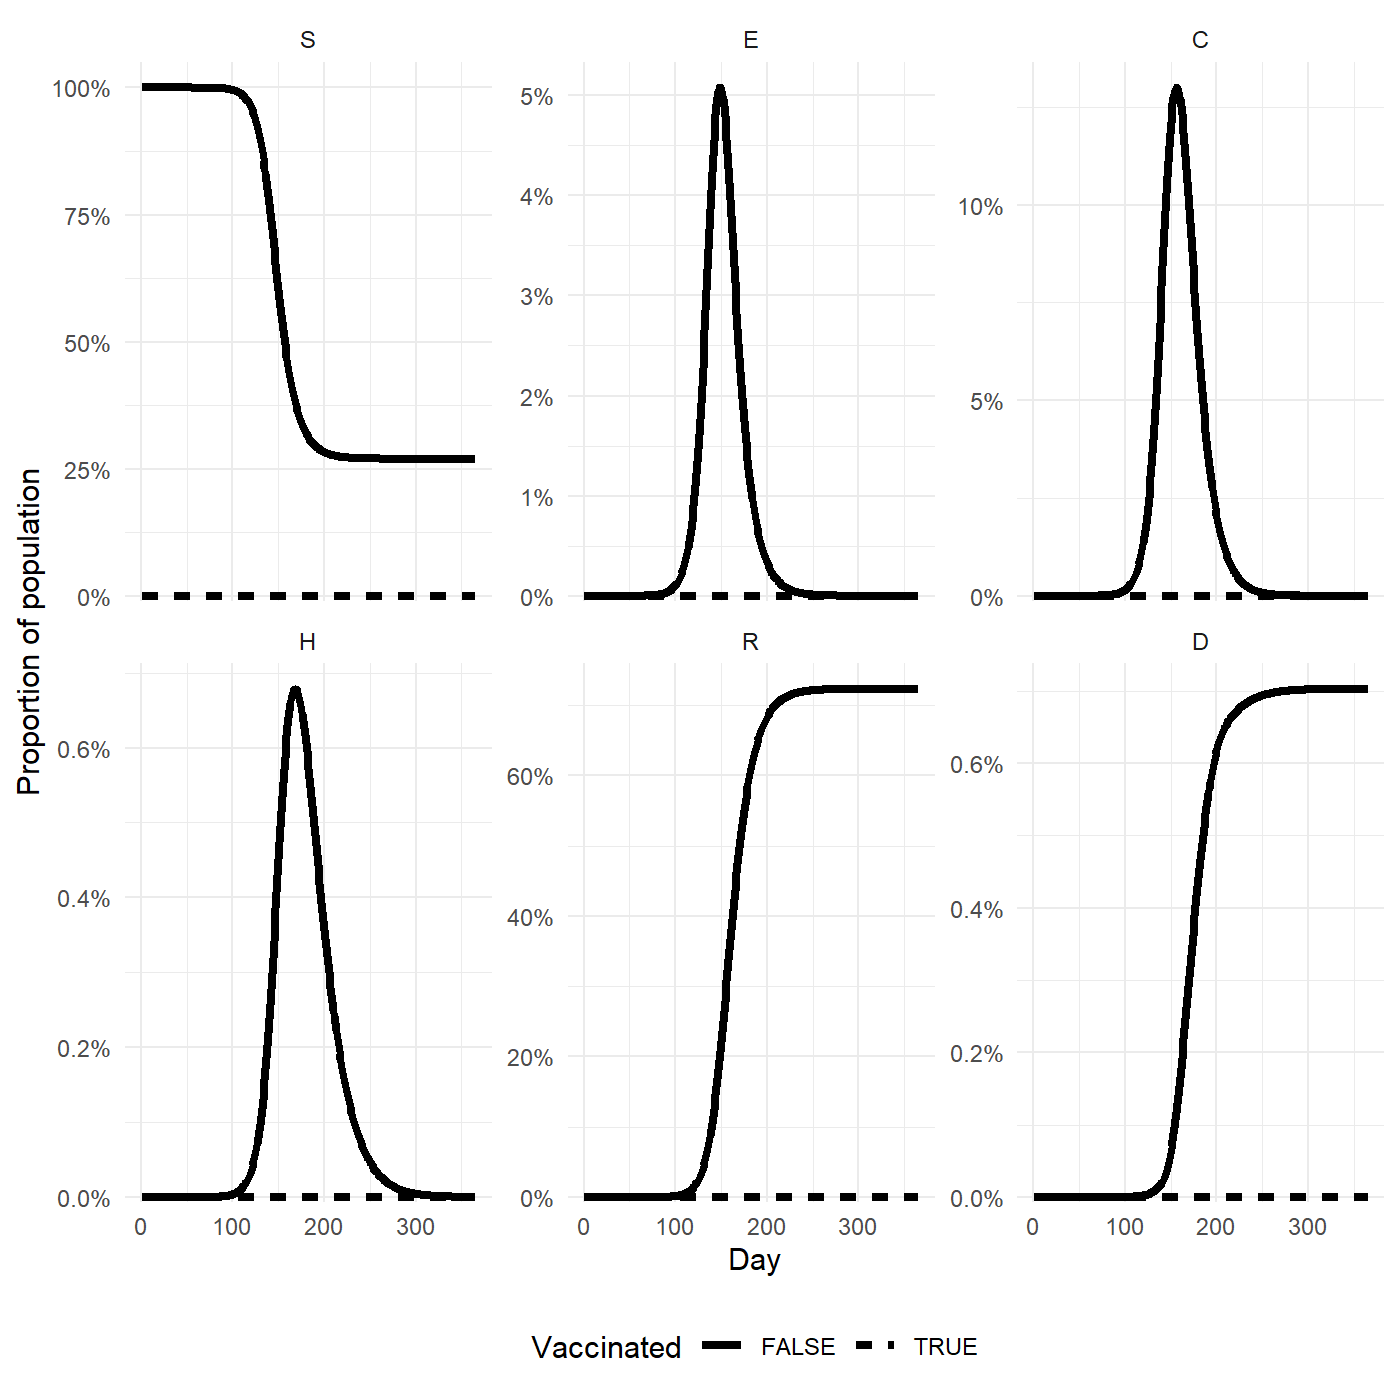
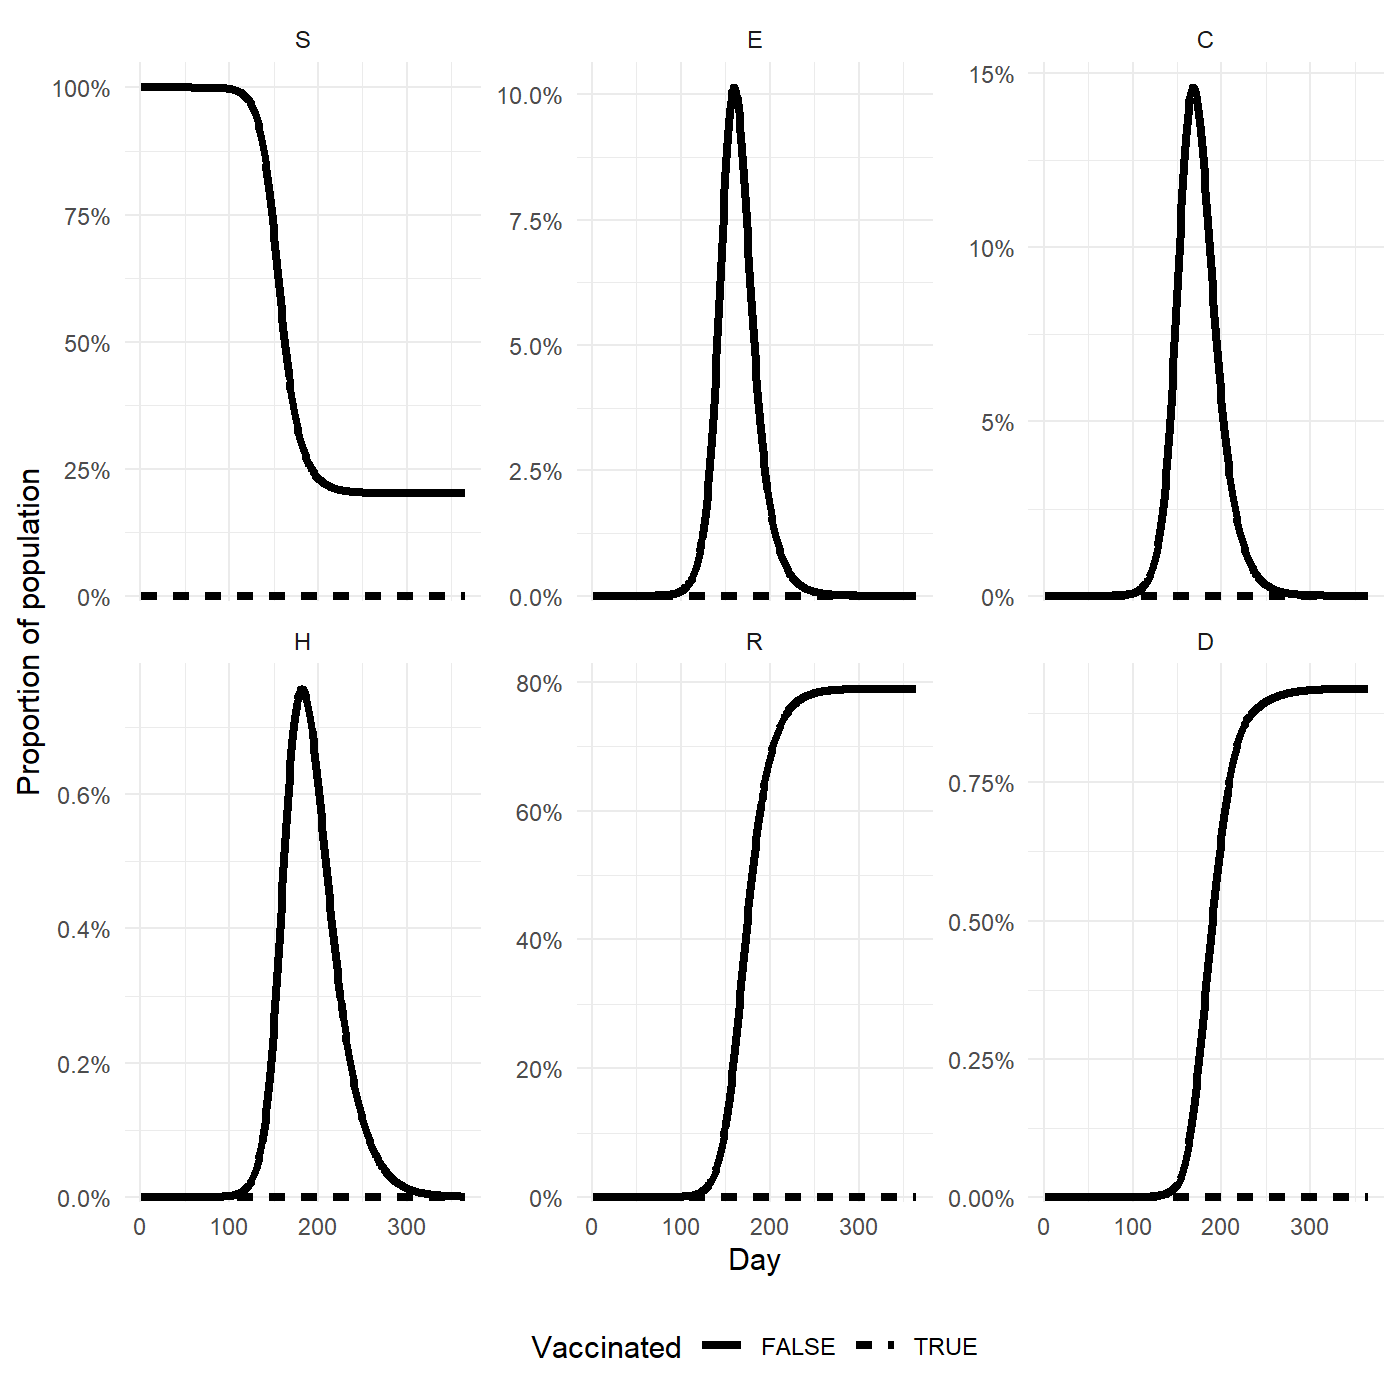
updated vignette

diff --git a/README.md b/README.md
@@ -37,9 +37,9 @@ their default values are given below:
 |Argument                |Description                                                                                                                                                                                                                   |Default value                                |
 |:-----------------------|:-----------------------------------------------------------------------------------------------------------------------------------------------------------------------------------------------------------------------------|:--------------------------------------------|
 |iso3                    |The ISO3 code of the country used to draw age-distributions and contact rates from.                                                                                                                                           |"USA"                                        |
-|R0                      |The basic reproduction number.                                                                                                                                                                                                |2.5                                          |
-|generation_time         |The mean generation time in days.                                                                                                                                                                                             |7                                            |
-|incubation_period       |The mean incubation period in days.                                                                                                                                                                                           |3                                            |
+|R0                      |The basic reproduction number.                                                                                                                                                                                                |3                                            |
+|generation_time         |The mean generation time in days.                                                                                                                                                                                             |10                                           |
+|incubation_period       |The mean incubation period in days.                                                                                                                                                                                           |6                                            |
 |infectiousness_presymp  |Relative infectiousness of presymptomatic cases to symptomatic cases.                                                                                                                                                         |0.25                                         |
 |frac_symp               |The proportion of cases that eventually develop symptoms.                                                                                                                                                                     |0.8                                          |
 |ifr                     |Infection fatality rate provided either as a single value or as a vector of the same length as the number of age categories. Use the function 'age_to_ifr' to calculate a COVID-like IFR from a vector of ages.               |age_to_ifr(get_age_median())                 |
@@ -131,19 +131,19 @@ summary(output, day = 150)
 
 |statistic                            |value     |
 |:------------------------------------|:---------|
-|incidence_last_7                     |40716054  |
-|incidence_cumulative                 |138832526 |
-|incidence_weekly_change              |8%        |
-|death_last_7                         |71172     |
-|death_cumulative                     |162438    |
-|death_weekly_change                  |61%       |
-|hosp_admission_last_7                |1027356   |
-|hosp_admission_cumulative            |2740023   |
-|hosp_admission_weekly_change         |35%       |
-|hospital_occupancy                   |181%      |
-|proportion_cases_hospitalised_last_7 |2.5%      |
-|ifr_last_7                           |0.175%    |
-|ifr_cumulative                       |0.117%    |
+|incidence_last_7                     |37913546  |
+|incidence_cumulative                 |100239417 |
+|incidence_weekly_change              |38%       |
+|death_last_7                         |37413     |
+|death_cumulative                     |78425     |
+|death_weekly_change                  |82%       |
+|hosp_admission_last_7                |653121    |
+|hosp_admission_cumulative            |1467098   |
+|hosp_admission_weekly_change         |66%       |
+|hospital_occupancy                   |102%      |
+|proportion_cases_hospitalised_last_7 |1.7%      |
+|ifr_last_7                           |0.099%    |
+|ifr_cumulative                       |0.078%    |
 
 
 
@@ -176,22 +176,22 @@ day is done with `output$prevalence[250,,]`:
 ```
 ##         state
 ## age      S_u E_u C_u H_u R_u D_u S_v E_v C_v H_v R_v D_v
-##   age_1  1.7   0   0   0 3.8 0.0   0   0   0   0   0   0
-##   age_2  0.9   0   0   0 5.0 0.0   0   0   0   0   0   0
-##   age_3  0.5   0   0   0 5.6 0.0   0   0   0   0   0   0
-##   age_4  0.3   0   0   0 6.3 0.0   0   0   0   0   0   0
-##   age_5  0.9   0   0   0 5.7 0.0   0   0   0   0   0   0
-##   age_6  0.9   0   0   0 5.7 0.0   0   0   0   0   0   0
-##   age_7  1.1   0   0   0 5.9 0.0   0   0   0   0   0   0
-##   age_8  0.9   0   0   0 5.8 0.0   0   0   0   0   0   0
-##   age_9  0.9   0   0   0 5.6 0.0   0   0   0   0   0   0
-##   age_10 1.0   0   0   0 5.0 0.0   0   0   0   0   0   0
-##   age_11 1.1   0   0   0 5.0 0.1   0   0   0   0   0   0
-##   age_12 1.7   0   0   0 4.3 0.1   0   0   0   0   0   0
-##   age_13 3.0   0   0   0 3.1 0.1   0   0   0   0   0   0
-##   age_14 3.5   0   0   0 2.1 0.1   0   0   0   0   0   0
-##   age_15 3.0   0   0   0 1.4 0.1   0   0   0   0   0   0
-##   age_16 5.6   0   0   0 1.7 0.2   0   0   0   0   0   0
+##   age_1  1.2   0   0 0.0 4.3 0.0   0   0   0   0   0   0
+##   age_2  0.5   0   0 0.0 5.3 0.0   0   0   0   0   0   0
+##   age_3  0.3   0   0 0.0 5.9 0.0   0   0   0   0   0   0
+##   age_4  0.1   0   0 0.0 6.5 0.0   0   0   0   0   0   0
+##   age_5  0.5   0   0 0.0 6.0 0.0   0   0   0   0   0   0
+##   age_6  0.5   0   0 0.0 6.0 0.0   0   0   0   0   0   0
+##   age_7  0.6   0   0 0.0 6.4 0.0   0   0   0   0   0   0
+##   age_8  0.5   0   0 0.0 6.2 0.0   0   0   0   0   0   0
+##   age_9  0.5   0   0 0.0 6.0 0.0   0   0   0   0   0   0
+##   age_10 0.6   0   0 0.0 5.4 0.0   0   0   0   0   0   0
+##   age_11 0.7   0   0 0.0 5.4 0.1   0   0   0   0   0   0
+##   age_12 1.2   0   0 0.0 4.8 0.1   0   0   0   0   0   0
+##   age_13 2.4   0   0 0.0 3.7 0.1   0   0   0   0   0   0
+##   age_14 2.9   0   0 0.0 2.6 0.2   0   0   0   0   0   0
+##   age_15 2.7   0   0 0.0 1.7 0.2   0   0   0   0   0   0
+##   age_16 5.1   0   0 0.1 2.1 0.2   0   0   0   0   0   0
 ```
 
 Accessing the prevalence of the 1st age compartment (0-4) and 1st infectious
@@ -201,7 +201,7 @@ compartment (unvaccinated susceptible) for days 130 to 135 is done with
 
 ```
 ## day_130 day_131 day_132 day_133 day_134 day_135 
-##     5.1     5.1     5.1     5.0     5.0     4.9
+##     5.3     5.3     5.3     5.2     5.2     5.2
 ```
 
 The outputs can also be extracted in `tibble` form using the `extract` function,
@@ -250,11 +250,11 @@ df
 ##      day compartment vax      value
 ##    <dbl> <fct>       <lgl>    <dbl>
 ##  1    10 S           FALSE 1.00e+ 0
-##  2    10 E           FALSE 4.30e- 8
-##  3    10 C           FALSE 6.82e- 8
-##  4    10 H           FALSE 1.33e- 9
-##  5    10 R           FALSE 5.26e- 8
-##  6    10 D           FALSE 4.17e-11
+##  2    10 E           FALSE 5.69e- 8
+##  3    10 C           FALSE 5.28e- 8
+##  4    10 H           FALSE 8.70e-10
+##  5    10 R           FALSE 3.95e- 8
+##  6    10 D           FALSE 2.36e-11
 ##  7    10 S           TRUE  0       
 ##  8    10 E           TRUE  0       
 ##  9    10 C           TRUE  0       
@@ -311,13 +311,7 @@ state[,"S_u"] <- state[,"S_v"] <- state[,"S_u"]/2
 ```r
 ## run model
 output <- run_model(pars, init_state = state)
-```
 
-```
-## Error in run_model(pars, init_state = state): object 'x' not found
-```
-
-```r
 ## visualise prevalence
 plot(output)
 ```
